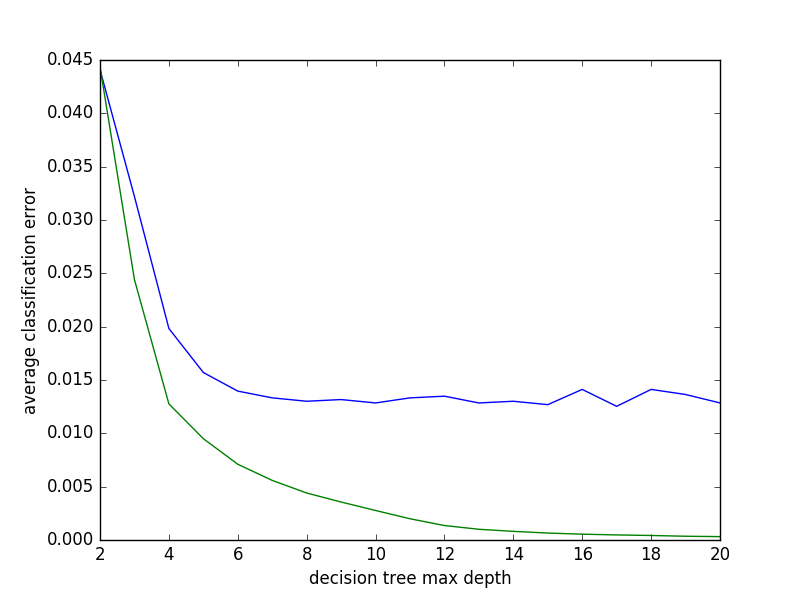
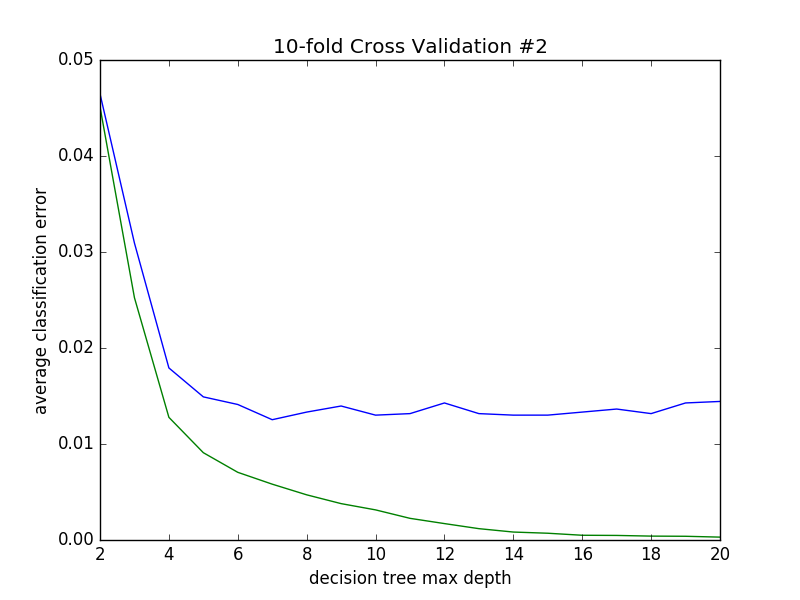
Add titles to classification error plots.

diff --git a/answers/assignment3_2_HendrikWerner_s4549775_ConstantinBlach_s4329872.py b/answers/assignment3_2_HendrikWerner_s4549775_ConstantinBlach_s4329872.py
@@ -23,10 +23,12 @@ def classification_errors(X_train, y_train, X_test, y_test, depths):
 # Plot the tree depth against the classification error.
 def plot_errors(
         depths, errors_list,
+        title="Cross validation",
         xlabel="decision tree max depth",
         ylabel="classification error"
 ):
     f = plt.subplot(111)
+    f.set_title(title)
     for errors in errors_list:
         f.plot(depths, errors)
     f.set_xlabel(xlabel)
@@ -65,4 +67,8 @@ def average_errors(errors_list):
 
 
 average_errors = (average_errors(errors_list_test), average_errors(errors_list_train))
-plot_errors(depths, average_errors, ylabel="average classification error")
+plot_errors(
+    depths, average_errors,
+    title="100-fold Cross validation",
+    ylabel="average classification error"
+)
